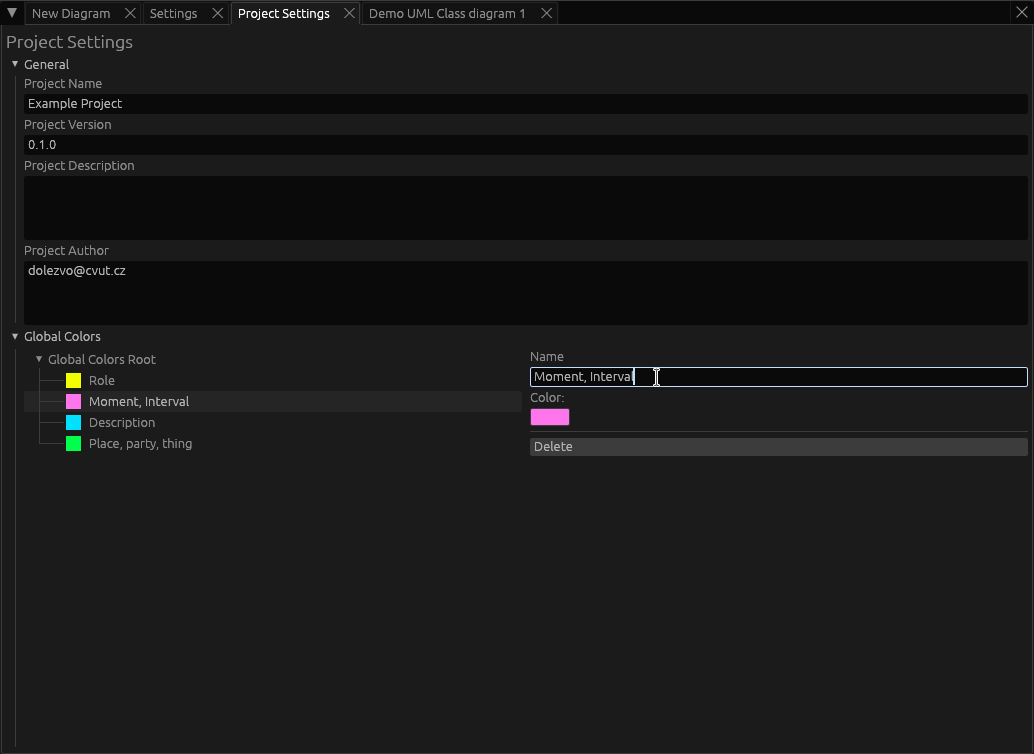
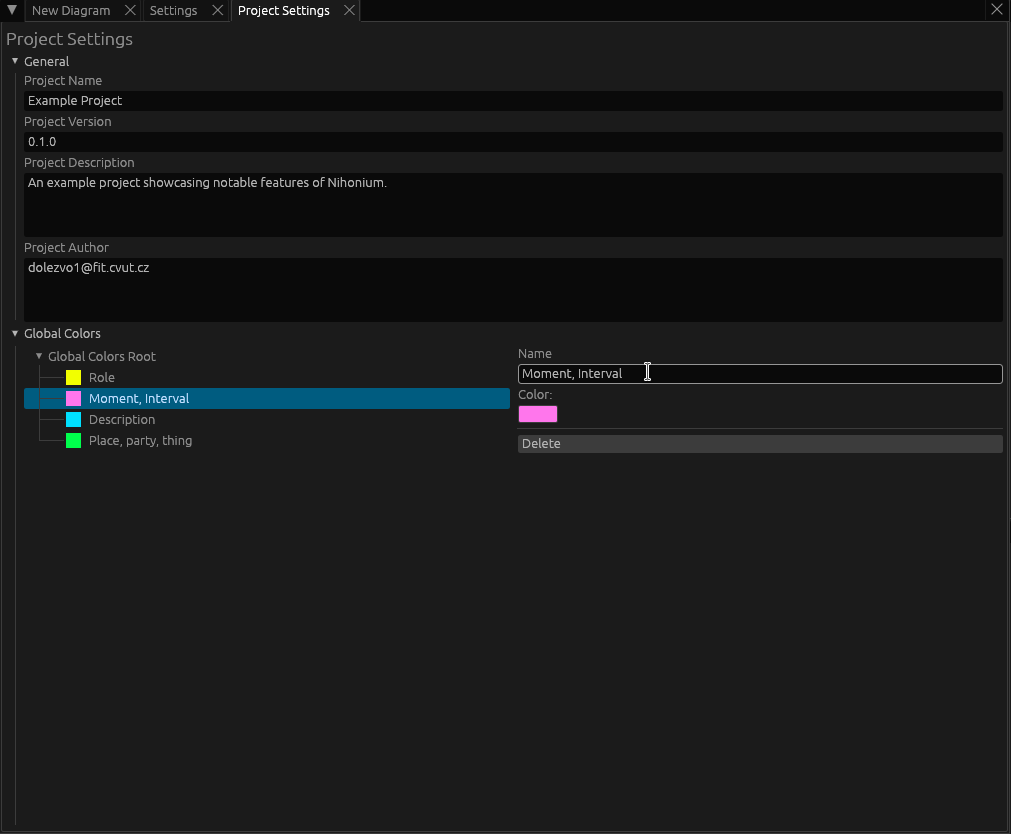
Fix minor issues with new USER_MANUAL content

diff --git a/USER_MANUAL.md b/USER_MANUAL.md
@@ -59,7 +59,7 @@ Settings set through the Settings tab are persistent and project independent.
 
 The visuals section includes visual options such as Light/Dark UI theme, UI scaling, as well as customization options for egui_dock.
 
-The diagram shades sections serves to control diagram shades, which can be used to ease the stress when working in low light environment. Default shortcut to cycle shades is `Ctrl+K`.
+The diagram shades section serves to control diagram shades, which can be used to ease the eye strain when working in low light environment. Default shortcut to cycle shades is `Ctrl+K`.
 
 ![](img/screenshot_settings_diagramshades.png)
 
